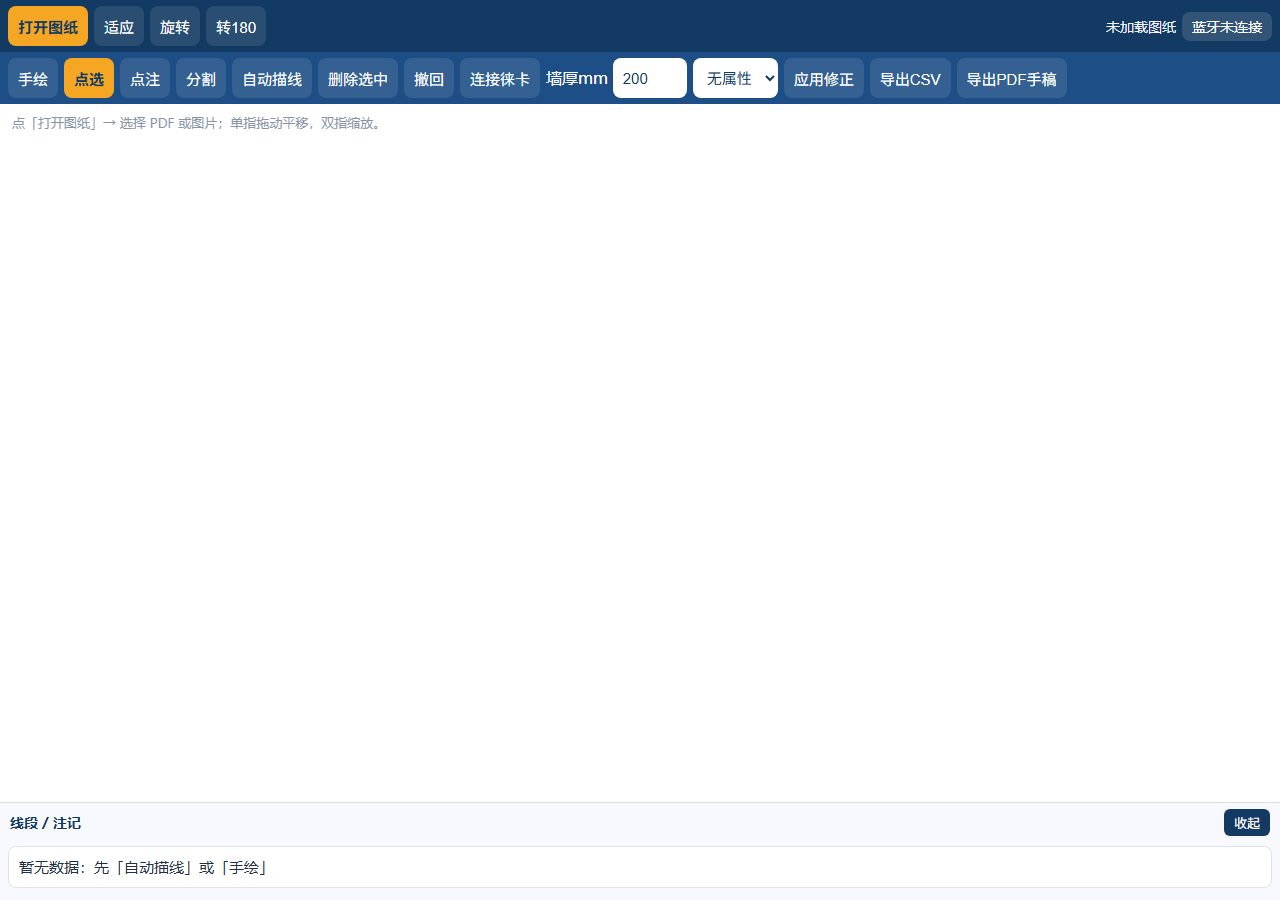
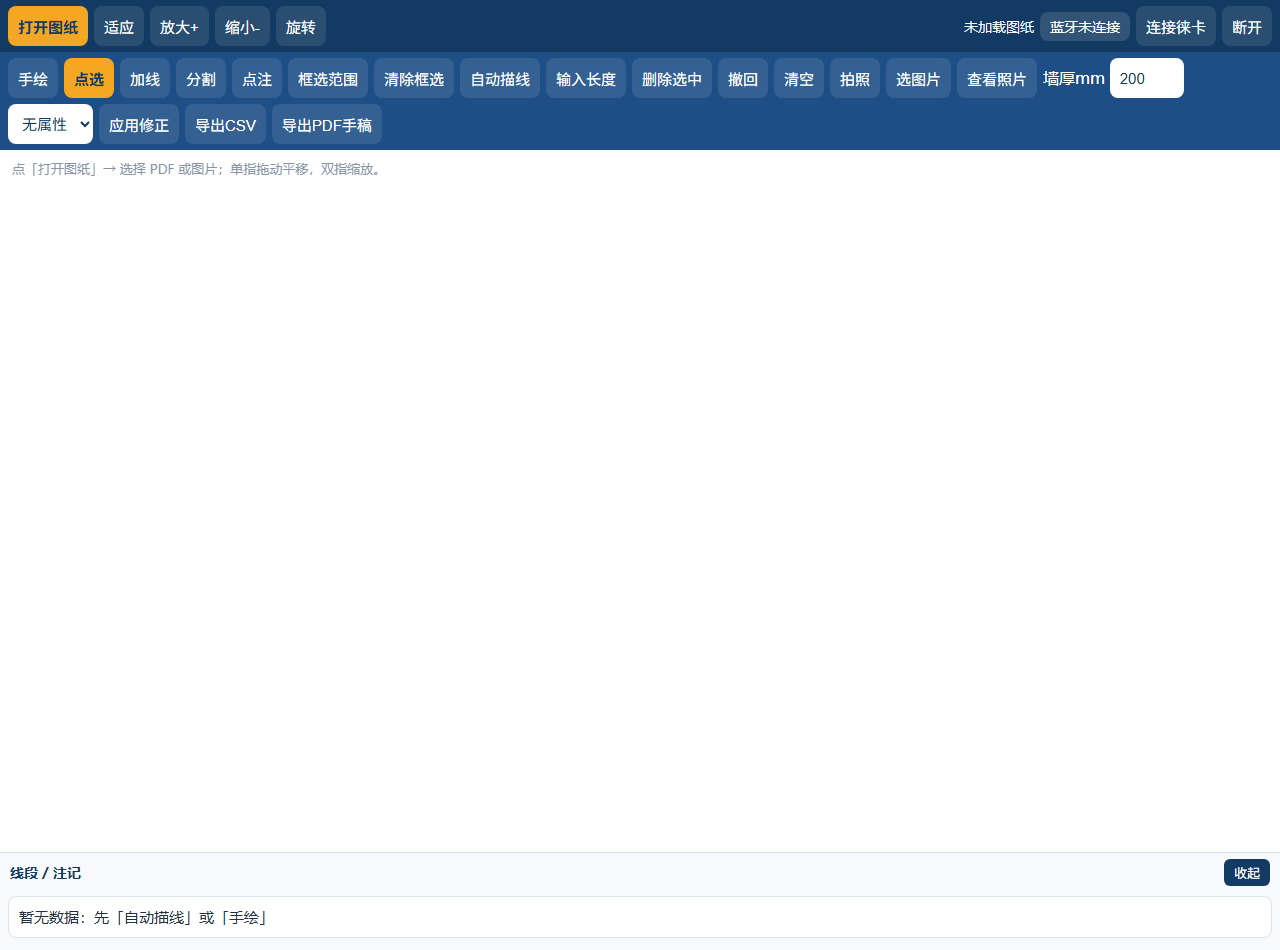
Add files via upload

Changed region(s): [[0.0, 0.0, 1.0, 0.1867], [0.0, 0.9022, 0.2188, 0.9956], [0.9375, 0.8711, 1.0, 0.9333]]

diff --git a/server/api.py b/server/api.py
@@ -1,0 +1,171 @@
+# -*- coding: utf-8 -*-
+"""内部识别本地服务：直接复用电脑版 plan_reader.trace_interior 的算法。
+平板通过 adb reverse 访问 http://127.0.0.1:8081/interior 。
+"""
+import base64, json, sys, os
+sys.path.insert(0, r"D:\zuodianship\.pylibs")
+from http.server import BaseHTTPRequestHandler, ThreadingHTTPServer
+import numpy as np
+import cv2
+
+
+def interior_lines(img_bgr, crop, outer):
+    H, W = img_bgr.shape[:2]
+    if crop:
+        x0, y0, x1, y1 = [int(v) for v in crop]
+    else:
+        x0, y0, x1, y1 = 0, 0, W, H
+    x0 = max(0, min(W - 1, x0)); x1 = max(x0 + 1, min(W, x1))
+    y0 = max(0, min(H - 1, y0)); y1 = max(y0 + 1, min(H, y1))
+    rgb = cv2.cvtColor(img_bgr, cv2.COLOR_BGR2RGB)
+    gray = cv2.cvtColor(rgb, cv2.COLOR_RGB2GRAY)
+    hsv = cv2.cvtColor(rgb, cv2.COLOR_RGB2HSV)
+    red1 = cv2.inRange(hsv, (0, 40, 80), (15, 255, 255))
+    red2 = cv2.inRange(hsv, (165, 40, 80), (180, 255, 255))
+    red = cv2.dilate(cv2.bitwise_or(red1, red2), np.ones((5, 5), np.uint8), iterations=2)
+    sub = (gray[y0:y1, x0:x1] < 190).astype(np.uint8) * 255
+    sub[red[y0:y1, x0:x1] > 0] = 0
+    sh, sw = sub.shape
+
+    xs = [p for s in outer for p in (s["a"][0], s["b"][0])]
+    ys = [p for s in outer for p in (s["a"][1], s["b"][1])]
+    if not xs:
+        return []
+    bx0 = max(0, int(min(xs)) - x0 + 8)
+    bx1 = min(sw, int(max(xs)) - x0 - 8)
+    by0 = max(0, int(min(ys)) - y0 + 8)
+    by1 = min(sh, int(max(ys)) - y0 - 8)
+
+    khc = cv2.getStructuringElement(cv2.MORPH_RECT, (25, 1))
+    kvc = cv2.getStructuringElement(cv2.MORPH_RECT, (1, 25))
+    horc = cv2.morphologyEx(sub, cv2.MORPH_CLOSE, khc)
+    verc = cv2.morphologyEx(sub, cv2.MORPH_CLOSE, kvc)
+    hord = cv2.morphologyEx(horc, cv2.MORPH_OPEN, cv2.getStructuringElement(cv2.MORPH_RECT, (10, 1)))
+    verd = cv2.morphologyEx(verc, cv2.MORPH_OPEN, cv2.getStructuringElement(cv2.MORPH_RECT, (1, 10)))
+
+    cands = []
+    for mask, horizontal in ((hord, True), (verd, False)):
+        cnts, _ = cv2.findContours(mask, cv2.RETR_EXTERNAL, cv2.CHAIN_APPROX_SIMPLE)
+        for c in cnts:
+            x, y, ww, hh = cv2.boundingRect(c)
+            if horizontal:
+                if ww < 50:
+                    continue
+                my = y + hh / 2
+                mx_c = x + ww / 2
+                if not (bx0 <= mx_c <= bx1 and by0 <= my <= by1):
+                    continue
+                cands.append(("H", x, x + ww, my))
+            else:
+                if hh < 50:
+                    continue
+                mx = x + ww / 2
+                my_c = y + hh / 2
+                if not (by0 <= my_c <= by1 and bx0 <= mx <= bx1):
+                    continue
+                cands.append(("V", y, y + hh, mx))
+
+    def far_from_outer(seg):
+        typ, a0, a1, c = seg
+        if typ == "H":
+            pts = [((a0 + a1) / 2 + x0, c + y0)]
+        else:
+            pts = [(c + x0, (a0 + a1) / 2 + y0)]
+        for s in outer:
+            ax, ay = s["a"]; bx, by = s["b"]
+            hh = abs(ay - by) < 3
+            for px, py in pts:
+                if hh:
+                    if abs(py - ay) <= 6 and min(ax, bx) - 6 <= px <= max(ax, bx) + 6:
+                        return False
+                else:
+                    if abs(px - ax) <= 6 and min(ay, by) - 6 <= py <= max(ay, by) + 6:
+                        return False
+        return True
+
+    cands = [c for c in cands if far_from_outer(c)]
+
+    minx_o, maxx_o = min(xs), max(xs)
+    miny_o, maxy_o = min(ys), max(ys)
+
+    def to_img(seg):
+        typ, a0, a1, c = seg
+        if typ == "H":
+            xa = min(max(a0 + x0, minx_o), maxx_o)
+            xb = min(max(a1 + x0, minx_o), maxx_o)
+            yy = c + y0
+            return {"a": [float(xa), float(yy)], "b": [float(xb), float(yy)]}
+        ya = min(max(a0 + y0, miny_o), maxy_o)
+        yb = min(max(a1 + y0, miny_o), maxy_o)
+        xx = c + x0
+        return {"a": [float(xx), float(ya)], "b": [float(xx), float(yb)]}
+
+    inner = [to_img(c) for c in cands]
+
+    def connected(pt, segs, tol=14):
+        px, py = pt
+        for s in segs:
+            ax, ay = s["a"]; bx, by = s["b"]
+            if abs(ay - by) < 3:
+                if abs(py - ay) <= tol and min(ax, bx) - tol <= px <= max(ax, bx) + tol:
+                    return True
+            else:
+                if abs(px - ax) <= tol and min(ay, by) - tol <= py <= max(ay, by) + tol:
+                    return True
+        return False
+
+    kept = []
+    for s in inner:
+        L = ((s["b"][0] - s["a"][0]) ** 2 + (s["b"][1] - s["a"][1]) ** 2) ** 0.5
+        others = [x for x in outer + inner if x is not s]
+        if (connected(s["a"], others) and connected(s["b"], others)) or L >= 250:
+            kept.append(s)
+    return kept
+
+
+class Handler(BaseHTTPRequestHandler):
+    def _cors(self):
+        self.send_header("Access-Control-Allow-Origin", "*")
+        self.send_header("Access-Control-Allow-Headers", "Content-Type")
+        self.send_header("Access-Control-Allow-Methods", "POST, OPTIONS")
+
+    def do_OPTIONS(self):
+        self.send_response(200)
+        self._cors()
+        self.end_headers()
+
+    def do_POST(self):
+        try:
+            n = int(self.headers.get("Content-Length", 0))
+            req = json.loads(self.rfile.read(n).decode("utf-8"))
+            img = req["image"]
+            if "," in img:
+                img = img.split(",", 1)[1]
+            raw = base64.b64decode(img)
+            arr = np.frombuffer(raw, np.uint8)
+            bgr = cv2.imdecode(arr, cv2.IMREAD_COLOR)
+            crop = req.get("crop")
+            outer = req.get("outer") or []
+            segs = interior_lines(bgr, crop, outer)
+            out = json.dumps({"segments": segs}).encode("utf-8")
+            self.send_response(200)
+            self._cors()
+            self.send_header("Content-Type", "application/json")
+            self.send_header("Content-Length", str(len(out)))
+            self.end_headers()
+            self.wfile.write(out)
+        except Exception as e:
+            out = json.dumps({"error": str(e)}).encode("utf-8")
+            self.send_response(500)
+            self._cors()
+            self.send_header("Content-Type", "application/json")
+            self.send_header("Content-Length", str(len(out)))
+            self.end_headers()
+            self.wfile.write(out)
+
+    def log_message(self, *a):
+        pass
+
+
+if __name__ == "__main__":
+    ThreadingHTTPServer(("127.0.0.1", 8081), Handler).serve_forever()

diff --git a/对齐工作模式.md b/对齐工作模式.md
@@ -1,0 +1,40 @@
+# 平板版 ↔ 电脑版 对齐工作模式（默认规则）
+
+> 用户确认：**以后不单独提出时，默认按本规则执行。**
+> 定位：**把电脑软件手机化适配，不是重新做一个手机软件。**
+
+## 一、总原则
+
+1. 平板网页版以 **电脑最新单窗口版（`09-单窗口版/`）为唯一标准**；
+2. 功能、交互、算法逻辑保持一致，逐项对齐；
+3. **保留手机端便利操作**（这些是适配，不算偏离）：
+   - 拖动框选（也保留两点框选）；
+   - 双指缩放、单指平移；
+   - 点选命中范围放大（手指粗也能点中）；
+   - 触摸抖动容差（10px 内不算拖动）；
+   - 文件选择、拍照/相册关联等系统能力；
+4. 只砍用户同意砍的模式（竣工图识别、弧线、特部绘图），不自行删功能。
+
+## 二、每次改完自测对比
+
+同一 PDF、同一框选、同一操作：
+1. 电脑版记录：状态栏条数、关键线坐标、内部识别新增数；
+2. 平板版记录同样数据；
+3. 误差 >2 条视为未对齐，定位到具体步骤再修；
+4. 回复中给出对比数字。
+
+## 三、当前对齐状态
+
+| 功能 | 电脑版 | 平板版 | 状态 |
+|---|---|---|---|
+| 框选范围 | 两点 | 两点 + **拖动**（适配） | 已对齐 |
+| 内部识别 | trace_interior | 同算法（JS 本地，v20） | 已对齐：54 vs 53 |
+| 自动描线/框选识别 | trace_lines：两遍取线、去重、共线合并、角点吸附、延长闭合、外侧图框/底部表格过滤 | v22 同流程 | **已对齐**：同一 PDF、同一区域，电脑 12 条 / 平板 13 条（差 1，阈值边缘） |
+| 加线 / 闭合 | 线上交点再画线 / 最近缺口 | 同 | 已对齐 |
+| 点注、输入长度、墙厚、CSV、PDF 手稿 | — | — | 已对齐 |
+
+## 四、下一步
+
+1. ~~trace_lines 阶段对比~~：已做，最终 12 vs 13，达标；
+2. 再做一轮全功能清单：删除/撤回/清空/点选命中/属性显示/PDF 格式；
+3. 移动端便利操作（拖动框选、缩放、命中范围）保持不动。
